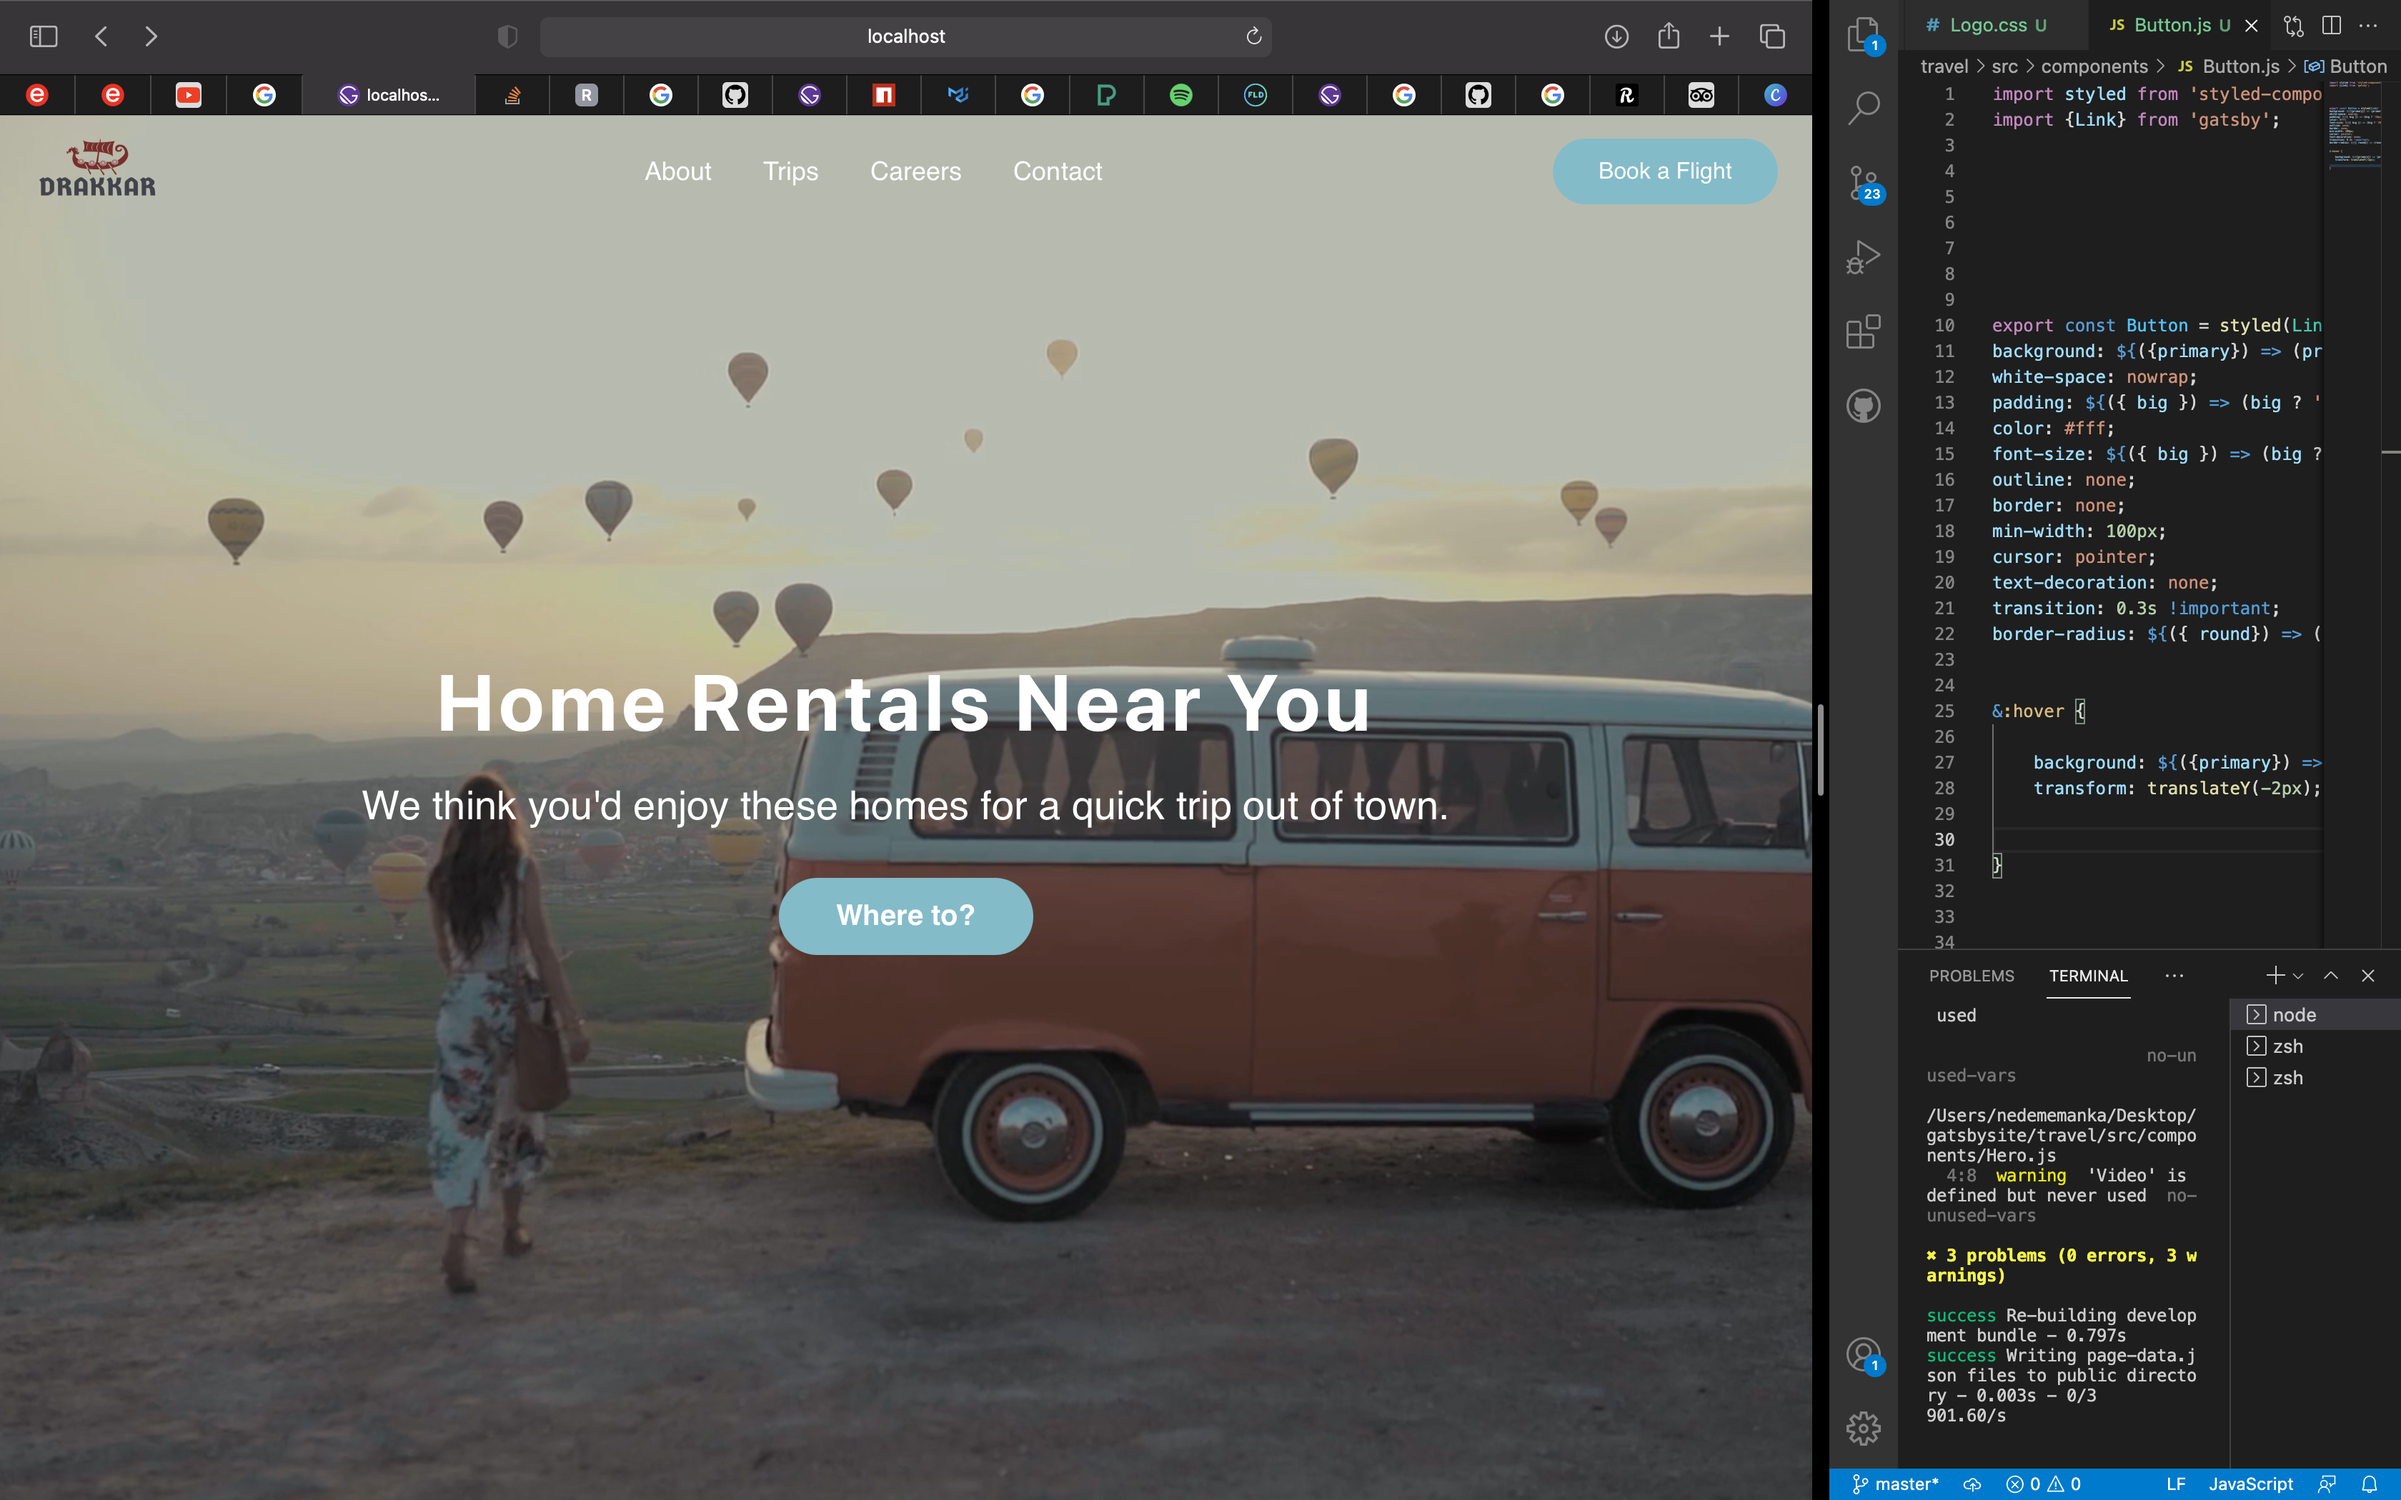
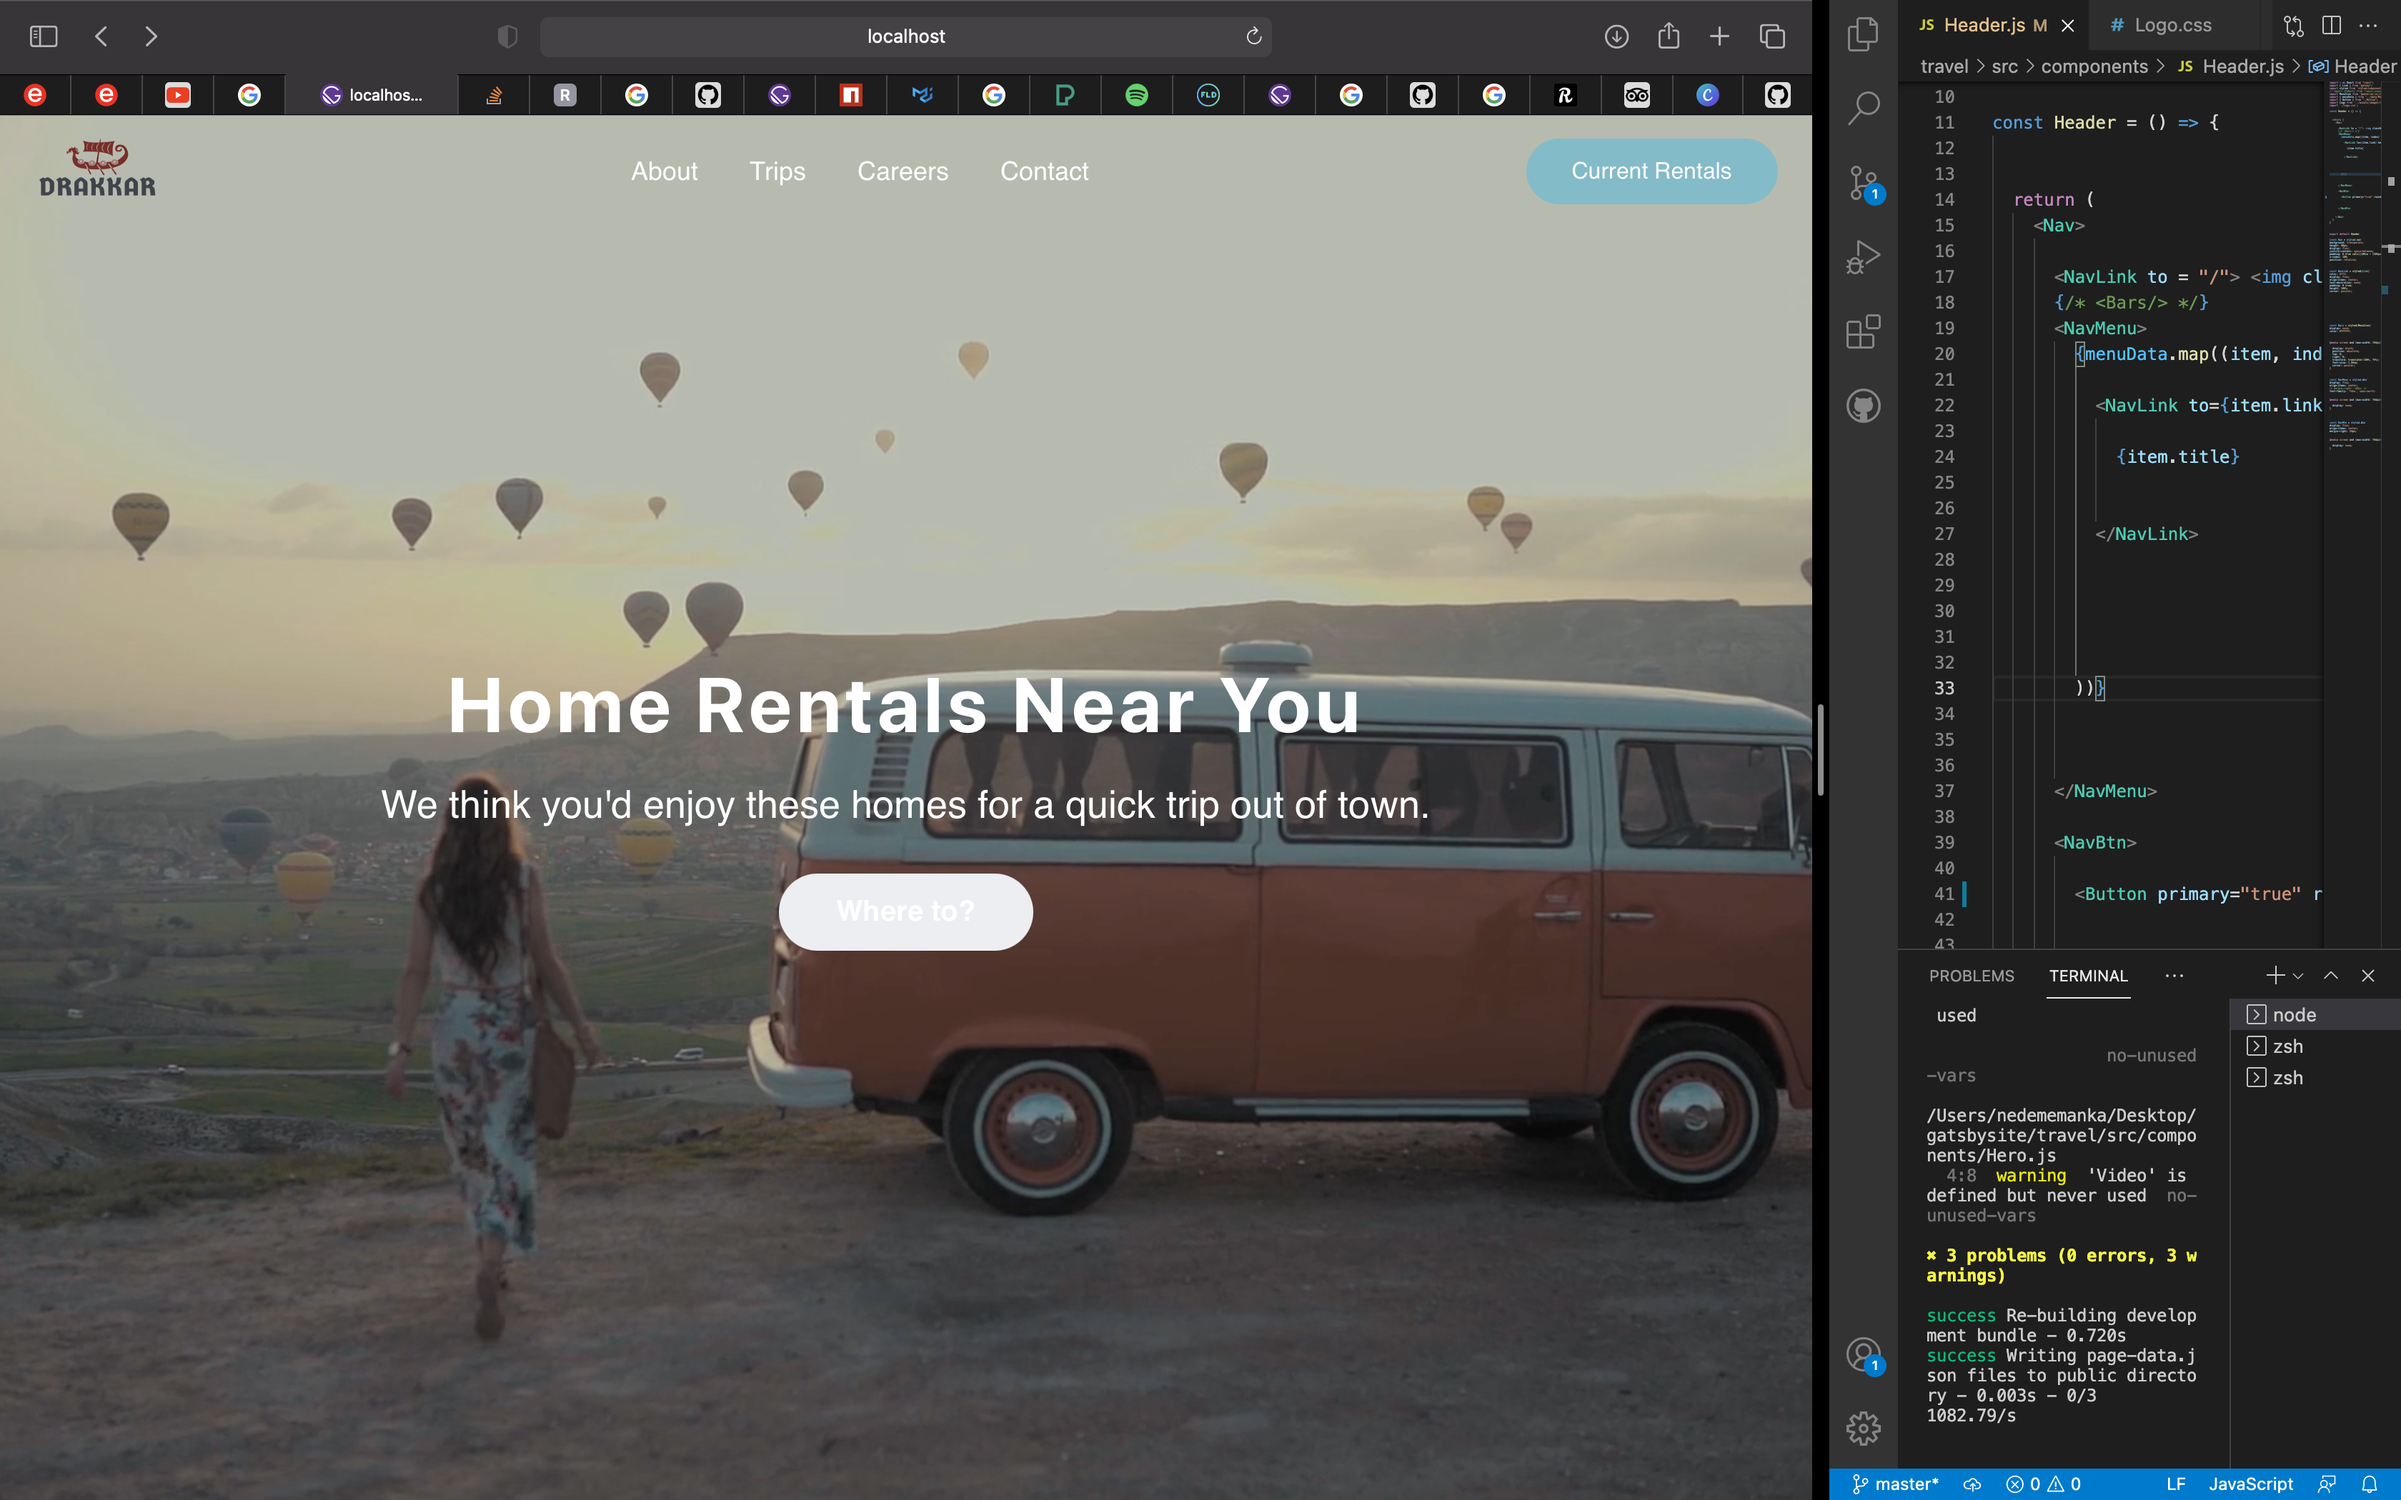
third commit

diff --git a/src/components/header.js b/src/components/header.js
@@ -38,7 +38,7 @@ const Header = () => {
 
       <NavBtn>
 
-        <Button primary="true" round="true" to="/trips">Book a Flight</Button>
+        <Button primary="true" round="true" to="/trips">Current Rentals</Button>
 
 
 
